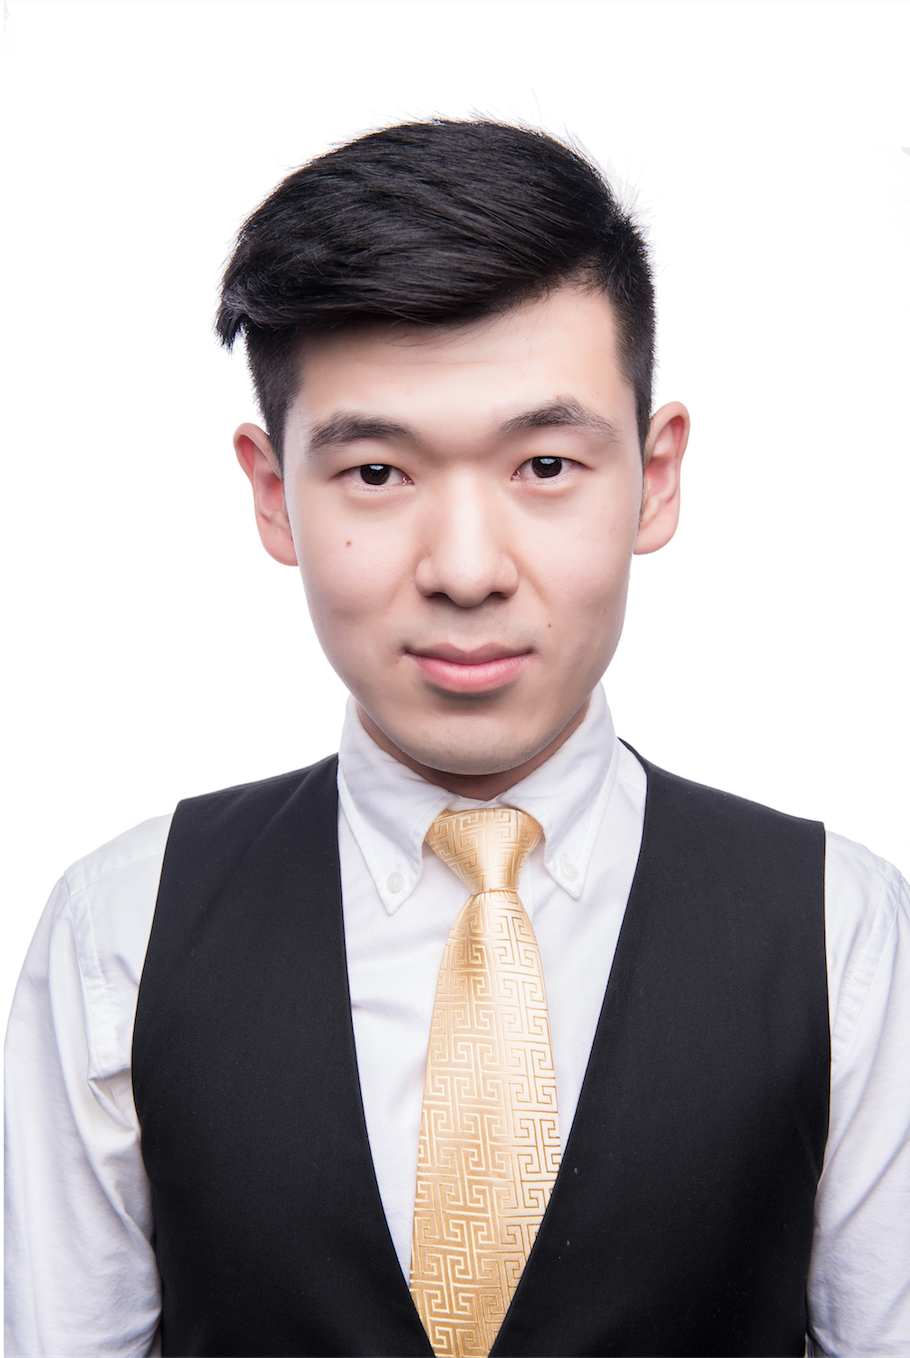
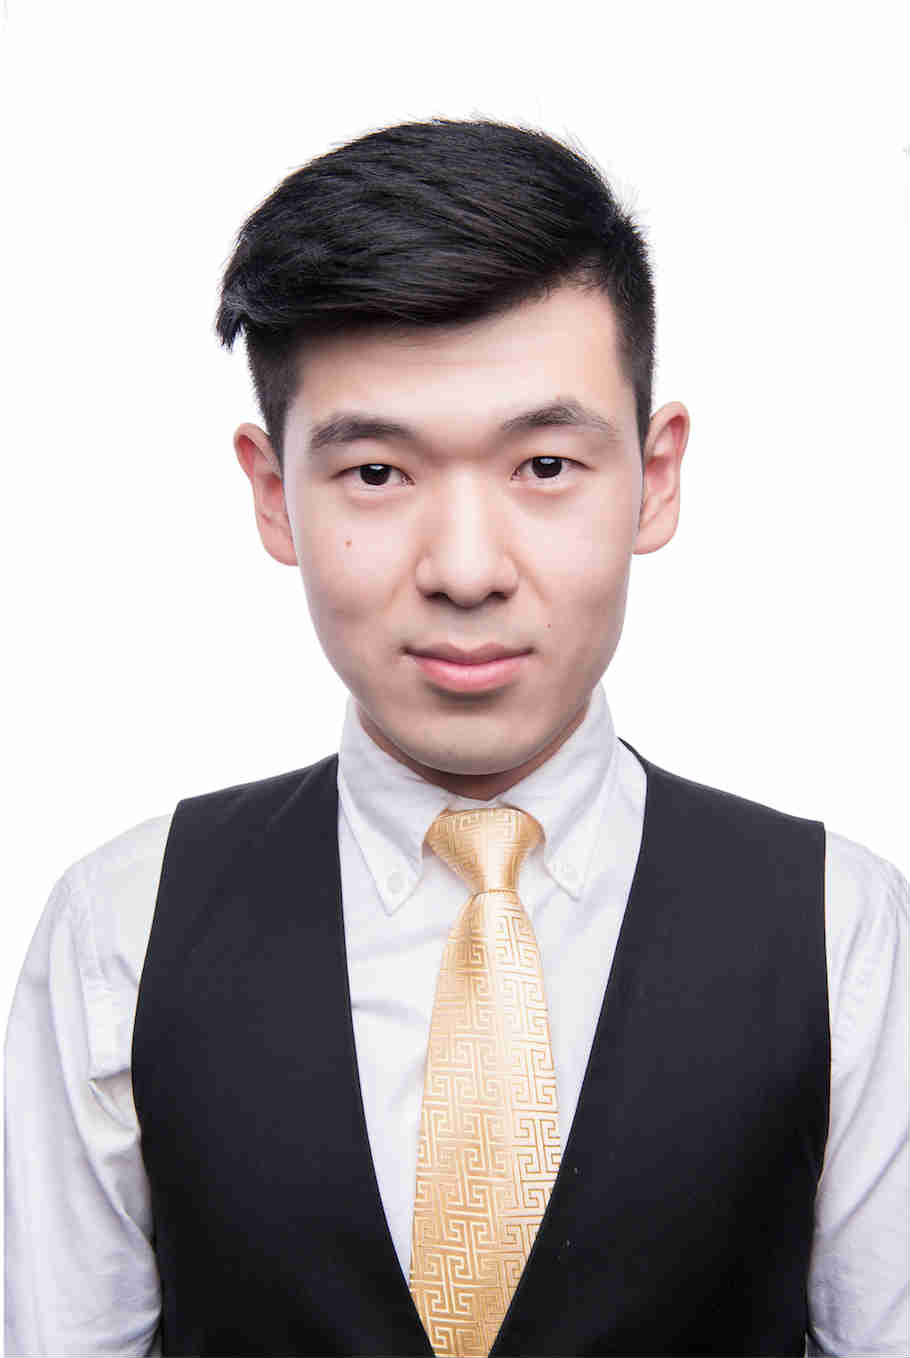
#photo改大小

diff --git a/src/components/GroupIntroduction/GroupIntroduction.vue b/src/components/GroupIntroduction/GroupIntroduction.vue
@@ -16,29 +16,49 @@
                     <li data-target="#gux-carousel-example-captions" data-slide-to="3" class="active"></li>
                 </ol>
                 <div class="carousel-inner" role="listbox">
+<<<<<<< Updated upstream
                     <div class="item active" style="overflow:hidden;">
                         <img src="./assets/img/WechatIMG4.jpeg" data-holder-rendered="true">
+=======
+                    <div class="item active" style="height:640px;overflow:hidden;">
+                        <img src="./assets/img/WechatIMG4.jpg" data-holder-rendered="true">
+>>>>>>> Stashed changes
                         <div class="carousel-caption">
                             <h3>9月28日 星期三</h3>
                             <p>今天对需求分析进行了激烈的讨论，并确定了组内分工</p>
                         </div>
                     </div>
+<<<<<<< Updated upstream
                     <div class="item" style="overflow:hidden;">
                         <img src="./assets/img/WechatIMG2.jpeg" data-holder-rendered="true">
+=======
+                    <div class="item" style="height:640px;overflow:hidden;">
+                        <img src="./assets/img/WechatIMG2.jpg" data-holder-rendered="true">
+>>>>>>> Stashed changes
                         <div class="carousel-caption">
                             <h3>9月30日 星期五</h3>
                             <p>今天对STORY进行分解与描述</p>
                         </div>
                     </div>
+<<<<<<< Updated upstream
                     <div class="item" style="overflow:hidden;">
                         <img src="./assets/img/WechatIMG1.jpeg" data-holder-rendered="true">
+=======
+                    <div class="item" style="height:640px;overflow:hidden;">
+                        <img src="./assets/img/WechatIMG1.jpg" data-holder-rendered="true">
+>>>>>>> Stashed changes
                         <div class="carousel-caption">
                             <h3>9月30日 星期五</h3>
                             <p>今天确定了Product Backlog</p>
                         </div>
                     </div>
+<<<<<<< Updated upstream
                     <div class="item" style="overflow:hidden;">
                         <img src="./assets/img/WechatIMG3.jpeg" data-holder-rendered="true">
+=======
+                    <div class="item" style="height:640px;overflow:hidden;">
+                        <img src="./assets/img/WechatIMG3.jpg" data-holder-rendered="true">
+>>>>>>> Stashed changes
                         <div class="carousel-caption">
                             <h3>9月30日 星期五</h3>
                             <p>今天确定了Product Backlog</p>
@@ -58,7 +78,11 @@
         <div class="row">
             <div class="col-xs-12 col-sm-6 col-md-4">
                 <div class="thumbnail">
+<<<<<<< Updated upstream
                     <div class="gux-image-container"><img class="img-responsive img-rounded" src="./assets/collaborations/nanyixuan.jpeg" data-holder-rendered="true">
+=======
+                    <div style="height:480px;overflow:hidden"><img data-src="holder.js/100%" src="./assets/collaborations/nanyixuan.jpg" data-holder-rendered="true" style="width: 100%; display: block;">
+>>>>>>> Stashed changes
                     </div>
                     <div class="caption">
                         <h3>南艺璇</h3>
@@ -69,7 +93,11 @@
             </div>
             <div class="col-xs-12 col-sm-6 col-md-4">
                 <div class="thumbnail">
+<<<<<<< Updated upstream
                     <div class="gux-image-container"><img class="img-responsive" src="./assets/collaborations/guxiang.jpeg" data-holder-rendered="true">
+=======
+                    <div style="height:480px;overflow:hidden"><img data-src="holder.js/100%" src="./assets/collaborations/guxiang.jpg" data-holder-rendered="true" style="width: 100%; display: block;">
+>>>>>>> Stashed changes
                     </div>
                     <div class="caption">
                         <h3>顾乡(Gavin Gu)</h3>
